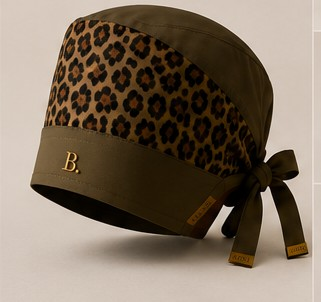
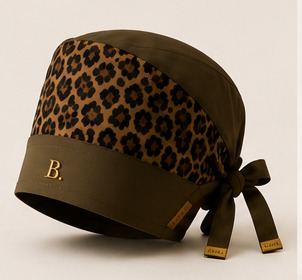
Photos produit uniformisées : 3 vues réelles par coloris
- Nouveaux visuels recadrés à l'identique pour les 5 coloris (profil, dos, intérieur)
- Cartes collection désormais parfaitement homogènes (même cadrage/taille)
- Fiche produit : galerie profil + dos + intérieur doublé, puis détails communs

Claude-Session: https://claude.ai/code/session_01BVtUmA46YgN29x9hJXQe9v

diff --git a/assets/js/main.js b/assets/js/main.js
@@ -8,7 +8,6 @@
   // Détails de construction communs à toute la collection
   var SHARED = [
     { src: "fabric.jpg",  alt: "Imprimé léopard exclusif" },
-    { src: "lining.jpg",  alt: "Doublure orange brûlé et étiquette BENJ." },
     { src: "plate.jpg",   alt: "Plaque métallique dorée BENJ." },
     { src: "bow.jpg",     alt: "Nœud du lien ajustable" }
   ];
@@ -16,15 +15,7 @@
   var PRODUCTS = [
     { id:"sable", num:"01", name:"Sahara Sable", hue:"Léopard sable",
       words:"Élégant. Intemporel. Iconique.",
-      desc:"Le coloris fondateur. Un léopard sable sur bandeau crème, rehaussé d'une doublure orange brûlé et de la plaque dorée BENJ. La pièce iconique de la maison.",
-      gallery:[
-        { src:"sable.jpg", alt:"Sahara Sable, vue trois-quarts" },
-        { src:"front.jpg", alt:"Sahara Sable, vue de face" },
-        { src:"back.jpg",  alt:"Sahara Sable, vue arrière et nœud" },
-        { src:"top.jpg",   alt:"Sahara Sable, vue de dessus" },
-        { src:"lining.jpg",alt:"Doublure orange brûlé signée BENJ." },
-        { src:"plate.jpg", alt:"Plaque métallique dorée" }
-      ] },
+      desc:"Le coloris fondateur. Un léopard sable sur bandeau crème, rehaussé d'une doublure orange brûlé et de la plaque dorée BENJ. La pièce iconique de la maison." },
     { id:"olive", num:"02", name:"Sahara Olive", hue:"Léopard olive",
       words:"Naturel. Profond. Raffiné.",
       desc:"Un vert olive profond qui enveloppe le léopard d'une aura naturelle et raffinée. Pour une allure organique et distinguée." },
@@ -54,7 +45,11 @@
 
   function el(html) { var t = document.createElement("template"); t.innerHTML = html.trim(); return t.content.firstChild; }
   function galleryFor(p) {
-    return (p.gallery || [{ src: p.id + ".jpg", alt: p.name }]).concat(p.gallery ? [] : SHARED);
+    return [
+      { src: p.id + ".jpg",      alt: p.name + " — profil trois-quarts" },
+      { src: p.id + "-back.jpg", alt: p.name + " — vue arrière et nœud" },
+      { src: p.id + "-top.jpg",  alt: p.name + " — intérieur doublé orange brûlé" }
+    ].concat(SHARED);
   }
 
   /* ---------- Collection ---------- */
@@ -62,7 +57,7 @@
     var grid = document.getElementById("collection-grid");
     if (!grid) return;
     PRODUCTS.forEach(function (p, i) {
-      var main = (p.gallery ? p.gallery[0].src : p.id + ".jpg");
+      var main = p.id + ".jpg";
       var card = el(
         '<button class="card reveal" style="transition-delay:' + (i * 60) + 'ms" aria-label="Voir ' + p.name + '">' +
           '<div class="card__visual">' +
